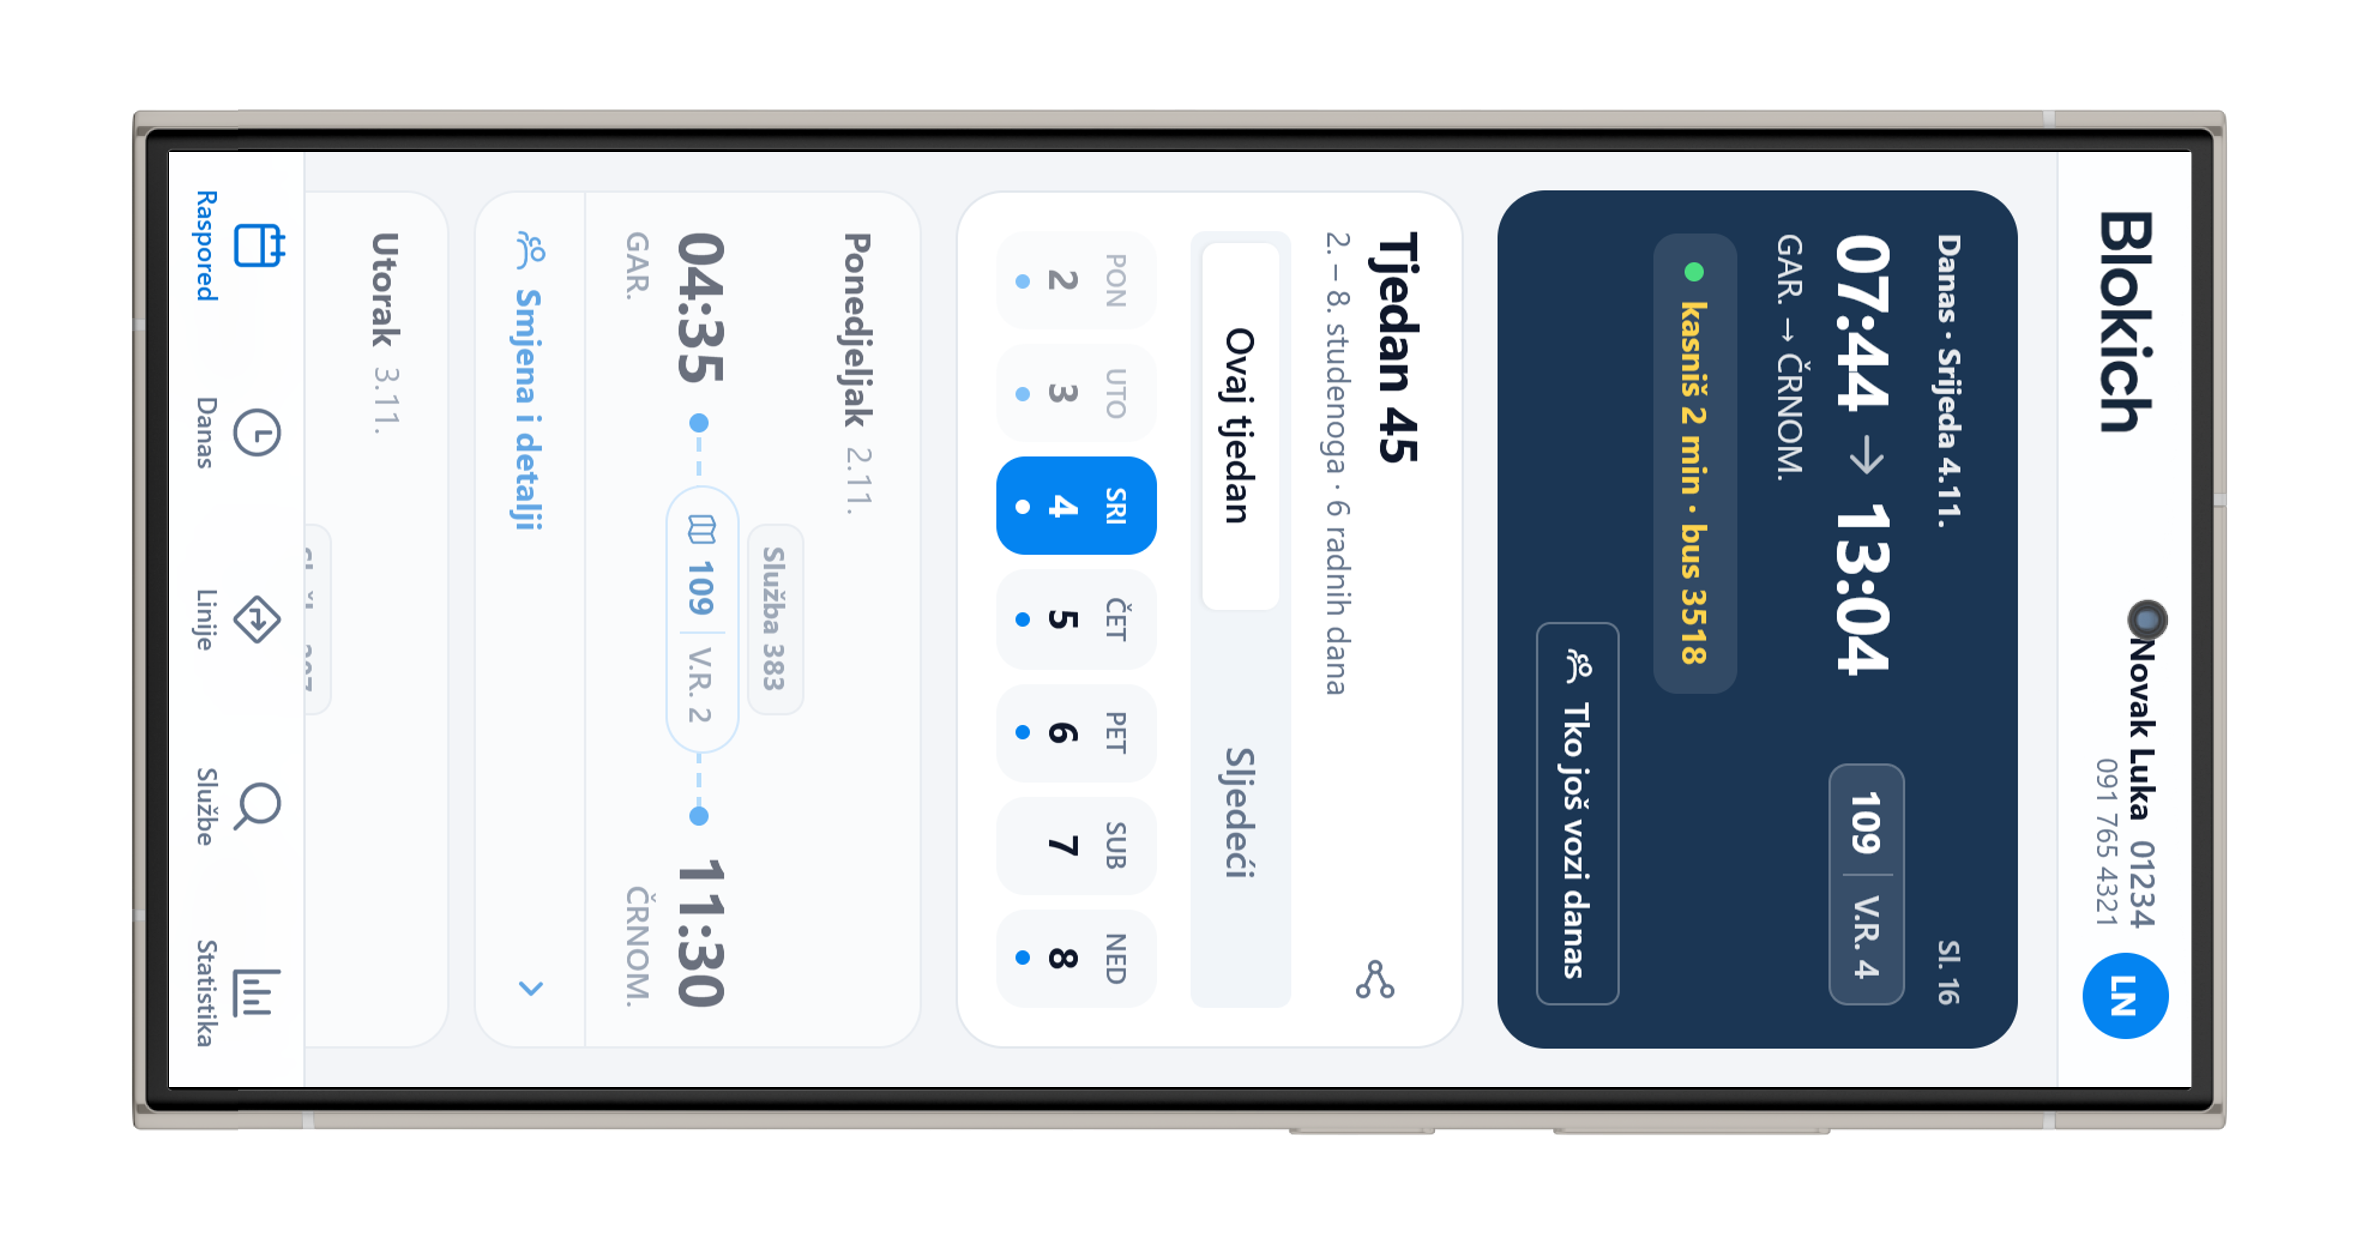
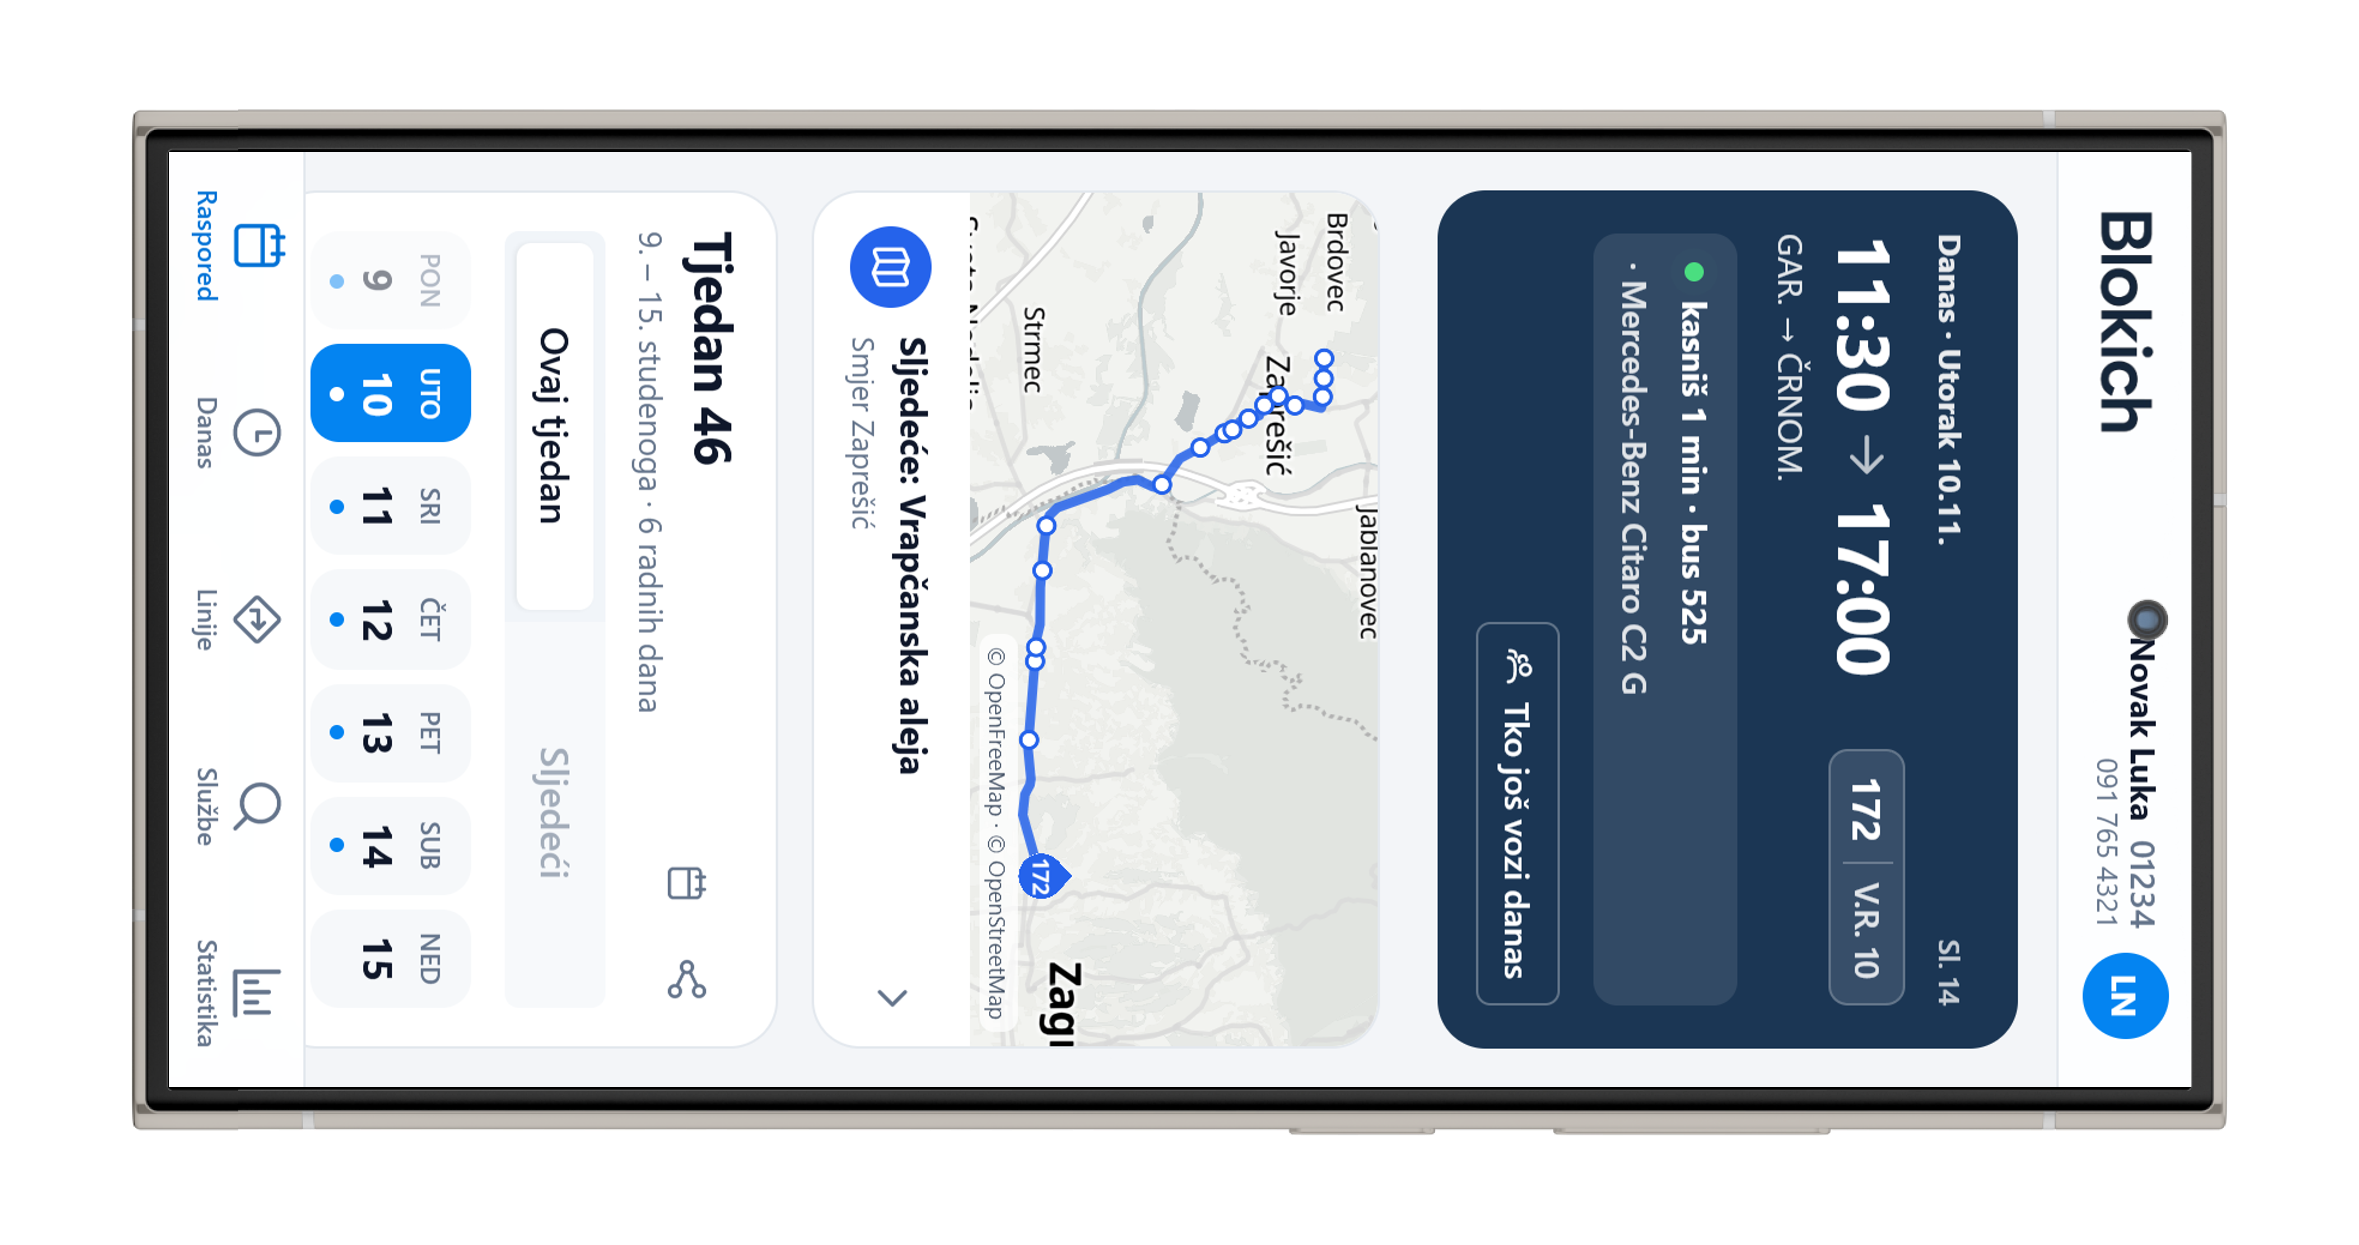
docs(readme): show the live map and navigation
README describes the live map, the driver's line map, navigation (beta) and the practice drive, with new phone mockups of the schedule, today's shift, live map, line route, navigation and login. Old screenshots and mockups that are no longer used are removed, and the new map data sources and env variables are listed.

diff --git a/README.md b/README.md
@@ -7,7 +7,7 @@
 </p>
 
 <p align="center">
-  Raspored, smjene i kolege na jednom mjestu – web aplikacija za vozače autobusa ZET-a (AP Podsused).
+  Raspored, smjene, kolege i karta uživo na jednom mjestu – web aplikacija za vozače autobusa ZET-a (AP Podsused).
 </p>
 
 <p align="center">
@@ -15,47 +15,73 @@
   <a href="https://github.com/to0ony/blokich/actions/workflows/deploy-fastapi.yml"><img src="https://github.com/to0ony/blokich/actions/workflows/deploy-fastapi.yml/badge.svg" alt="Deploy FastAPI" /></a>
   <img src="https://img.shields.io/badge/Angular_19-DD0031?logo=angular&logoColor=white" alt="Angular" />
   <img src="https://img.shields.io/badge/PrimeNG-0484f1" alt="PrimeNG" />
+  <img src="https://img.shields.io/badge/MapLibre-396CB2?logo=maplibre&logoColor=white" alt="MapLibre" />
   <img src="https://img.shields.io/badge/NestJS-E0234E?logo=nestjs&logoColor=white" alt="NestJS" />
   <img src="https://img.shields.io/badge/Python-3776AB?logo=python&logoColor=white" alt="Python" />
   <img src="https://img.shields.io/badge/MongoDB-47A248?logo=mongodb&logoColor=white" alt="MongoDB" />
 </p>
 
 <p align="center">
-  <img src="docs/mockups/raspored-left.png" alt="Blokich – tjedni raspored" width="560" />
+  <img src="docs/mockups/raspored-left.png" alt="Blokich – tjedni raspored s kartom linije" width="420" />
+  <img src="docs/mockups/karta-right.png" alt="Blokich – karta uživo" width="420" />
 </p>
 
 ## Značajke
 
-**Za vozače**
+**Raspored i smjena**
 - 📅 Tjedni raspored (aktualni i sljedeći tjedan) s karticom **Danas** na vrhu
 - 🟢 **Uživo** iz ZET-ovog GTFS-RT feeda – tko od kolega sad vozi, kašnjenje, broj busa i procjena dolaska na predaju; „tvoj bus stiže ~13:05“ sat prije nastupa
+- 🗺 Ispod kartice Danas karta tvoje linije s busom uživo i sljedećim stajalištem; kad su u danu dvije linije, kartice se listaju
 - 👥 Današnja smjena i vozači po liniji – s pozivom jednim dodirom i grupiranjem po V.R.
 - 🔎 Pregled službe, uključujući dvokratne službe na više linija
 - 📊 Statistika rada po tjednu i mjesecu
-- 📱 Mobile-first dizajn
+
+**Karta uživo**
+- 🚌 Sva vozila ZET-a na karti, s glatkim kretanjem po trasi linije; busevi AP Podsused istaknuti
+- 👆 Dodir na bus: smjer, sljedeće stajalište, kašnjenje, vozač s pozivom, model i tablica busa
+- 🔍 Pretraga po liniji, vozaču ili garažnom broju; ruta linije s oba smjera i stajalištima
+- 🎛 Filteri (samo Podsused, tramvaji), tamna karta, zoom
+
+**Navigacija (beta)**
+- 🧭 Navigacija po trasi linije prema GPS-u telefona – 2D ili 3D, karta okrenuta u smjeru vožnje
+- ↪ Sljedeće skretanje i stajalište u karticama gore, strelice skretanja na karti, glasovne najave (po defaultu isključene)
+- 🔁 Snalazi se kad se krene usred linije, vozi u suprotnom smjeru ili okreće na okretištu
+- ▶ **Probna vožnja** – cijela trasa ubrzano, za učenje nove linije
 
 **Za administratora**
 - ☁ Jedan klik povlači službe i disponent s ZET intraneta i obrađuje ih
 - 📄 Ručni uvoz PDF-ova (drag & drop), duplikati se prepoznaju po hashu
 
+📱 Sve je mobile-first.
+
 ## Screenshots
 
-| Raspored | Smjena | Uživo |
+| Raspored | Današnja smjena | Karta uživo |
 |:---:|:---:|:---:|
-| <img src="docs/mockups/raspored-portrait.png" alt="Tjedni raspored" width="240" /> | <img src="docs/mockups/smjena-portrait.png" alt="Današnja smjena" width="240" /> | <img src="docs/mockups/danas-uzivo-portrait.png" alt="Danas uživo" width="240" /> |
+| <img src="docs/mockups/raspored-portrait.png" alt="Tjedni raspored s kartom linije" width="240" /> | <img src="docs/mockups/danas-portrait.png" alt="Današnja smjena s kolegama uživo" width="240" /> | <img src="docs/mockups/karta-portrait.png" alt="Karta uživo s odabranim busom" width="240" /> |
 
-<sub>Prikazani podaci i imena su izmišljeni.</sub>
+| Ruta linije | Navigacija | Prijava |
+|:---:|:---:|:---:|
+| <img src="docs/mockups/linija-portrait.png" alt="Ruta linije sa stajalištima" width="240" /> | <img src="docs/mockups/navigacija-portrait.png" alt="Navigacija u 3D-u" width="240" /> | <img src="docs/mockups/login-portrait.png" alt="Prijava" width="240" /> |
+
+<sub>Prikazana imena, brojevi i raspored su izmišljeni; vozila, trase i kašnjenja su stvarni ZET podaci.</sub>
 
 ## Arhitektura
 
 ```
-client/blokich          Angular 19 + PrimeNG          → Vercel
-service/blokich         NestJS API + MongoDB          → Hetzner (pm2)
-service/blokich/python  FastAPI – parsiranje PDF-ova  → Hetzner (pm2)
+client/blokich          Angular 19 + PrimeNG + MapLibre  → Vercel
+service/blokich         NestJS API + MongoDB             → Hetzner (pm2)
+service/blokich/python  FastAPI – parsiranje PDF-ova     → Hetzner (pm2)
+service/blokich/osrm    OSRM (opcionalno) – skretanja s imenima ulica
 ```
 
-Vanjski izvori: ZET intranet (PDF službi i disponenta) i ZET GTFS-Realtime feed (vozila uživo).
-Spajanje s feedom: blok = linija + V.R. s dvije znamenke (`109` + `2` → `10902`).
+Vanjski izvori:
+- **ZET intranet** – PDF službi i disponenta
+- **ZET GTFS-Realtime** – vozila uživo i kašnjenja (backend ga čita najviše jednom u 5 s)
+- **ZET GTFS (vozni red)** – linije, trase i stajališta; backend ga sam osvježava svakih 6 h
+- **OpenFreeMap / OpenStreetMap** – podloga karte
+
+Spajanje s feedom: blok = linija + V.R. s dvije znamenke (`109` + `2` → `10902`). Vozač na busu dolazi iz disponenta i službi za taj blok.
 
 ## Pokretanje
 
@@ -80,6 +106,8 @@ cd client/blokich && npm ci && npm start
 | `ZET_INTERNO_PASSWORD` | Lozinka ZET intraneta za automatski dohvat PDF-ova |
 | `PYTHON_API_BASE_URL` | Adresa PDF parsera (zadano `http://127.0.0.1:8000`) |
 | `ZET_GTFS_RT_URL` | GTFS-RT feed (zadano `https://www.zet.hr/gtfs-rt-protobuf`) |
+| `ZET_GTFS_URL` | Vozni red za trase i stajališta (zadano `https://www.zet.hr/gtfs-scheduled/latest`) |
+| `OSRM_URL`, `OSRM_MAX_TOCAKA` | Opcionalno: vlastiti OSRM za skretanja s imenima ulica, vidi [`service/blokich/osrm`](service/blokich/osrm/README.md). Bez njega se skretanja računaju iz oblika trase. |
 
 ## Deploy
 
